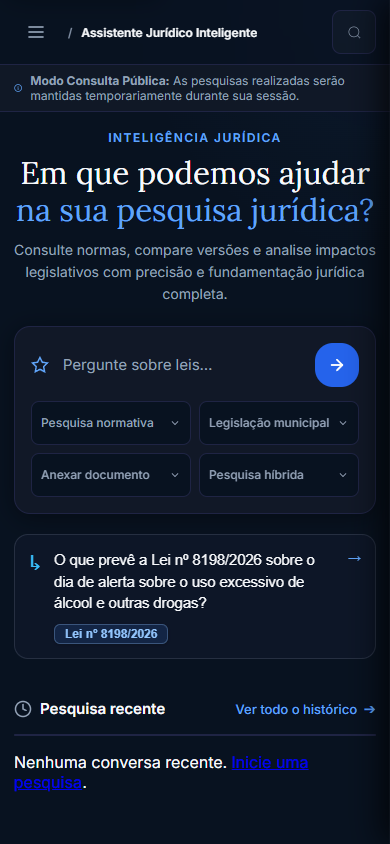
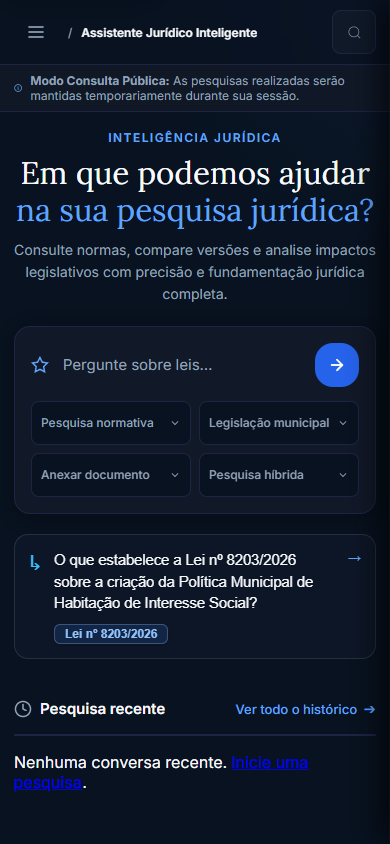
ui(a11y): make delete confirmation keyboard-safe

Changed region(s): [[0.1231, 0.6469, 0.8, 0.7701]]

diff --git a/src/apps/core/static/js/chat.js b/src/apps/core/static/js/chat.js
@@ -46,6 +46,7 @@
     let isStreamingGreeting = false;
     let navSeq = 0;
     let retryingExistingQuestion = null;
+    let deleteModalTrigger = null;
 
     // ===== UTILITIES =====
     function escapeHtml(text) {
@@ -666,7 +667,25 @@
 
     function deleteSession(sessionId, event) {
         if (!sessionId) return;
+        deleteModalTrigger = event?.target?.closest?.('[data-delete-session-id]') ||
+            (document.activeElement instanceof HTMLElement ? document.activeElement : null);
         showDeleteModal(sessionId);
+    }
+
+    function closeDeleteModal(modalOverlay, restoreFocus = true) {
+        if (!modalOverlay) return;
+        modalOverlay.classList.remove('active');
+        modalOverlay.inert = true;
+        modalOverlay.setAttribute('aria-hidden', 'true');
+        modalOverlay.setAttribute('aria-modal', 'false');
+        const appShell = document.querySelector('.figma-workspace');
+        if (appShell) appShell.inert = false;
+
+        const trigger = deleteModalTrigger;
+        deleteModalTrigger = null;
+        if (!restoreFocus) return;
+        if (trigger?.isConnected) trigger.focus();
+        else document.getElementById('new-chat-button')?.focus();
     }
 
     function showDeleteModal(sessionId) {
@@ -675,13 +694,19 @@
             modalOverlay = document.createElement('div');
             modalOverlay.id = 'delete-session-modal';
             modalOverlay.className = 'delete-modal-overlay';
+            modalOverlay.setAttribute('role', 'dialog');
+            modalOverlay.setAttribute('aria-modal', 'false');
+            modalOverlay.setAttribute('aria-hidden', 'true');
+            modalOverlay.setAttribute('aria-labelledby', 'delete-modal-title');
+            modalOverlay.setAttribute('aria-describedby', 'delete-modal-description');
+            modalOverlay.inert = true;
             modalOverlay.innerHTML = `
                 <div class="delete-modal">
                     <div class="delete-modal-header">
-                        <h3>Deletar Conversa</h3>
+                        <h3 id="delete-modal-title">Deletar conversa</h3>
                     </div>
                     <div class="delete-modal-body">
-                        <p>Tem certeza que deseja deletar esta conversa? Esta ação não pode ser desfeita.</p>
+                        <p id="delete-modal-description">Tem certeza que deseja deletar esta conversa? Esta ação não pode ser desfeita.</p>
                     </div>
                     <div class="delete-modal-footer">
                         <button class="delete-modal-cancel" id="delete-modal-cancel">Cancelar</button>
@@ -691,23 +716,57 @@
             `;
             document.body.appendChild(modalOverlay);
 
-            document.getElementById('delete-modal-cancel').addEventListener('click', () => {
-                modalOverlay.classList.remove('active');
+            document.getElementById('delete-modal-cancel').addEventListener('click', (event) => {
+                event.preventDefault();
+                closeDeleteModal(modalOverlay);
             });
 
             modalOverlay.addEventListener('click', (e) => {
-                if (e.target === modalOverlay) modalOverlay.classList.remove('active');
+                if (e.target === modalOverlay) closeDeleteModal(modalOverlay);
+            });
+
+            modalOverlay.addEventListener('keydown', (event) => {
+                if (event.key === 'Escape') {
+                    event.preventDefault();
+                    closeDeleteModal(modalOverlay);
+                    return;
+                }
+                if (event.key !== 'Tab') return;
+
+                const focusable = [...modalOverlay.querySelectorAll(
+                    'button:not([disabled]), a[href], input:not([disabled]), select:not([disabled]), textarea:not([disabled]), [tabindex]:not([tabindex="-1"])'
+                )].filter((element) => element.getClientRects().length > 0);
+                if (!focusable.length) {
+                    event.preventDefault();
+                    modalOverlay.querySelector('.delete-modal')?.focus();
+                    return;
+                }
+                const first = focusable[0];
+                const last = focusable[focusable.length - 1];
+                if (event.shiftKey && document.activeElement === first) {
+                    event.preventDefault();
+                    last.focus();
+                } else if (!event.shiftKey && document.activeElement === last) {
+                    event.preventDefault();
+                    first.focus();
+                }
             });
         }
 
         const confirmBtn = document.getElementById('delete-modal-confirm');
         confirmBtn.onclick = async () => {
-            modalOverlay.classList.remove('active');
+            closeDeleteModal(modalOverlay);
             await performDeleteSession(sessionId);
         };
 
+        modalOverlay.inert = false;
+        modalOverlay.setAttribute('aria-hidden', 'false');
+        modalOverlay.setAttribute('aria-modal', 'true');
+        const appShell = document.querySelector('.figma-workspace');
+        if (appShell) appShell.inert = true;
         requestAnimationFrame(() => {
             modalOverlay.classList.add('active');
+            document.getElementById('delete-modal-cancel')?.focus();
         });
     }
 
@@ -730,6 +789,7 @@
             }
 
             await loadChatSessions();
+            document.getElementById('new-chat-button')?.focus();
         } catch (error) {
             console.error('Error deleting session:', error);
             showNotification('Erro ao deletar conversa. Tente novamente.', 'error');

diff --git a/src/apps/legislation/templates/legislation/chatbot.html b/src/apps/legislation/templates/legislation/chatbot.html
@@ -382,7 +382,7 @@
     <script src="{% static 'js/jurix-chat-state.js' %}"></script>
     <script src="{% static 'js/jurix-chat-renderer.js' %}?v=20260929-message-times1"></script>
     <script src="{% static 'js/jurix-dynamic-suggestions.js' %}"></script>
-    <script src="{% static 'js/chat.js' %}?v=20260929-settings-payload1"></script>
+    <script src="{% static 'js/chat.js' %}?v=20260929-delete-modal-a11y1"></script>
     <script src="{% static 'js/jurix-chat-controller.js' %}"></script>
     <script src="{% static 'js/command_palette.js' %}?v=20260929-combobox-a11y"></script>
 

diff --git a/FRONTEND_LOG.md b/FRONTEND_LOG.md
@@ -1793,3 +1793,47 @@ Regressions: None observed.
 
 Next action: Continue final pass through route-level feedback/error states and
 reduced-motion behavior; verify that UI claims match actual actions.
+
+## Cycle 46 — 2026-09-29
+
+Area: Chat-history deletion confirmation accessibility and safety feedback.
+
+Goal: Make the destructive-action confirmation understandable and fully
+operable with keyboard without allowing accidental background actions.
+
+Observed problems: The dynamically created “Deletar conversa” confirmation
+had no dialog semantics, initial focus, Escape handling, focus containment or
+background isolation. Its cancel/backdrop paths only removed a CSS class, so
+focus could remain in an invisible overlay.
+
+Changes made: Added labelled/described dialog semantics, `aria-hidden` and
+`aria-modal` state, `inert` state for the dialog and underlying app shell,
+initial focus on the non-destructive Cancel action, Tab/Shift+Tab wrapping,
+Escape/backdrop cancellation and focus restoration. After a successful
+deletion, focus moves to “Nova pesquisa” rather than a removed history row.
+Updated the chat script cache key.
+
+Browser validation: At 390×844 in real Chromium, opened the modal through the
+chat UI API with a fixture trigger, verified its accessible name/description,
+background inertness and Cancel initial focus; exercised both Tab directions,
+Escape, focus return, reopen and Cancel. The fixture performed no delete
+request. Desktop/mobile capture set completed with 30 views and zero review
+flags.
+
+Tests: Full `npm test` passed with 18 real-Chromium scenarios, 19 structural
+contracts, 15 streaming/persistence tests, composer lifecycle and contrast
+checks. `git diff --check` passed.
+
+Console: The focused browser test reported no modal-specific runtime errors.
+
+Responsive validation: Modal keyboard test uses 390×844; screenshot capture
+covered 1440×900, 1280×800 and 390×844.
+
+Visual score: No new visual treatment; this closes a critical accessibility
+and interaction gap in a destructive flow.
+
+Regressions: None observed; confirmation still requires the explicit
+“Deletar” action, and the added test cancels without calling the deletion API.
+
+Next action: Continue auditing error and success announcements, then verify
+reduced-motion behavior across assistant and workspace route families.
